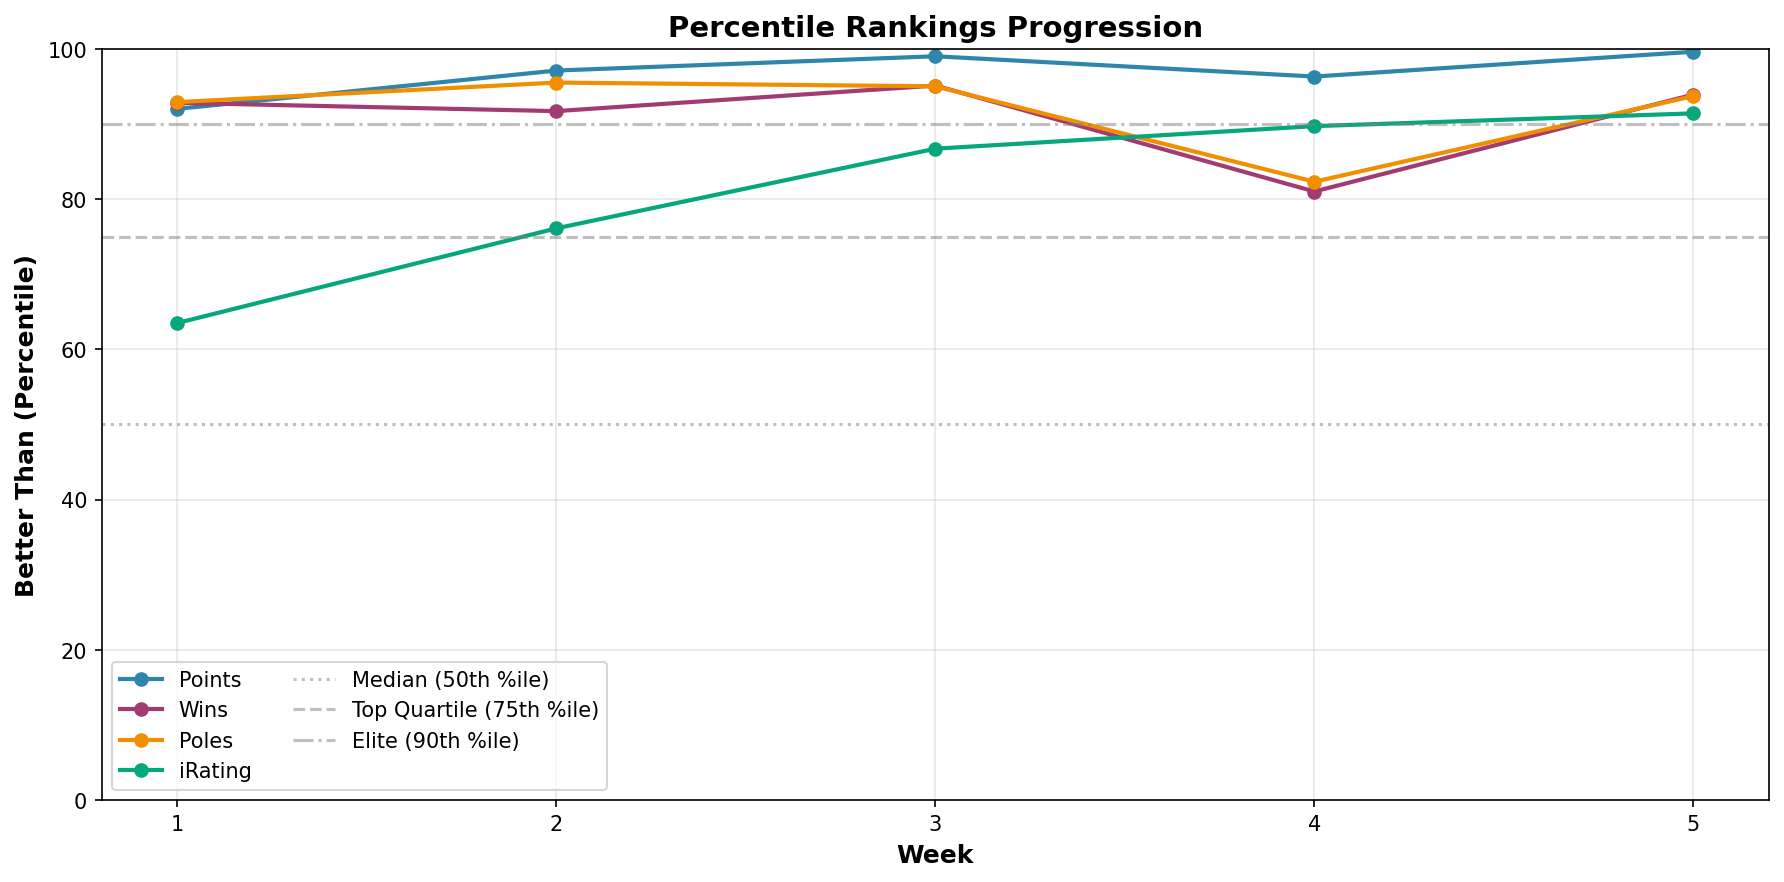
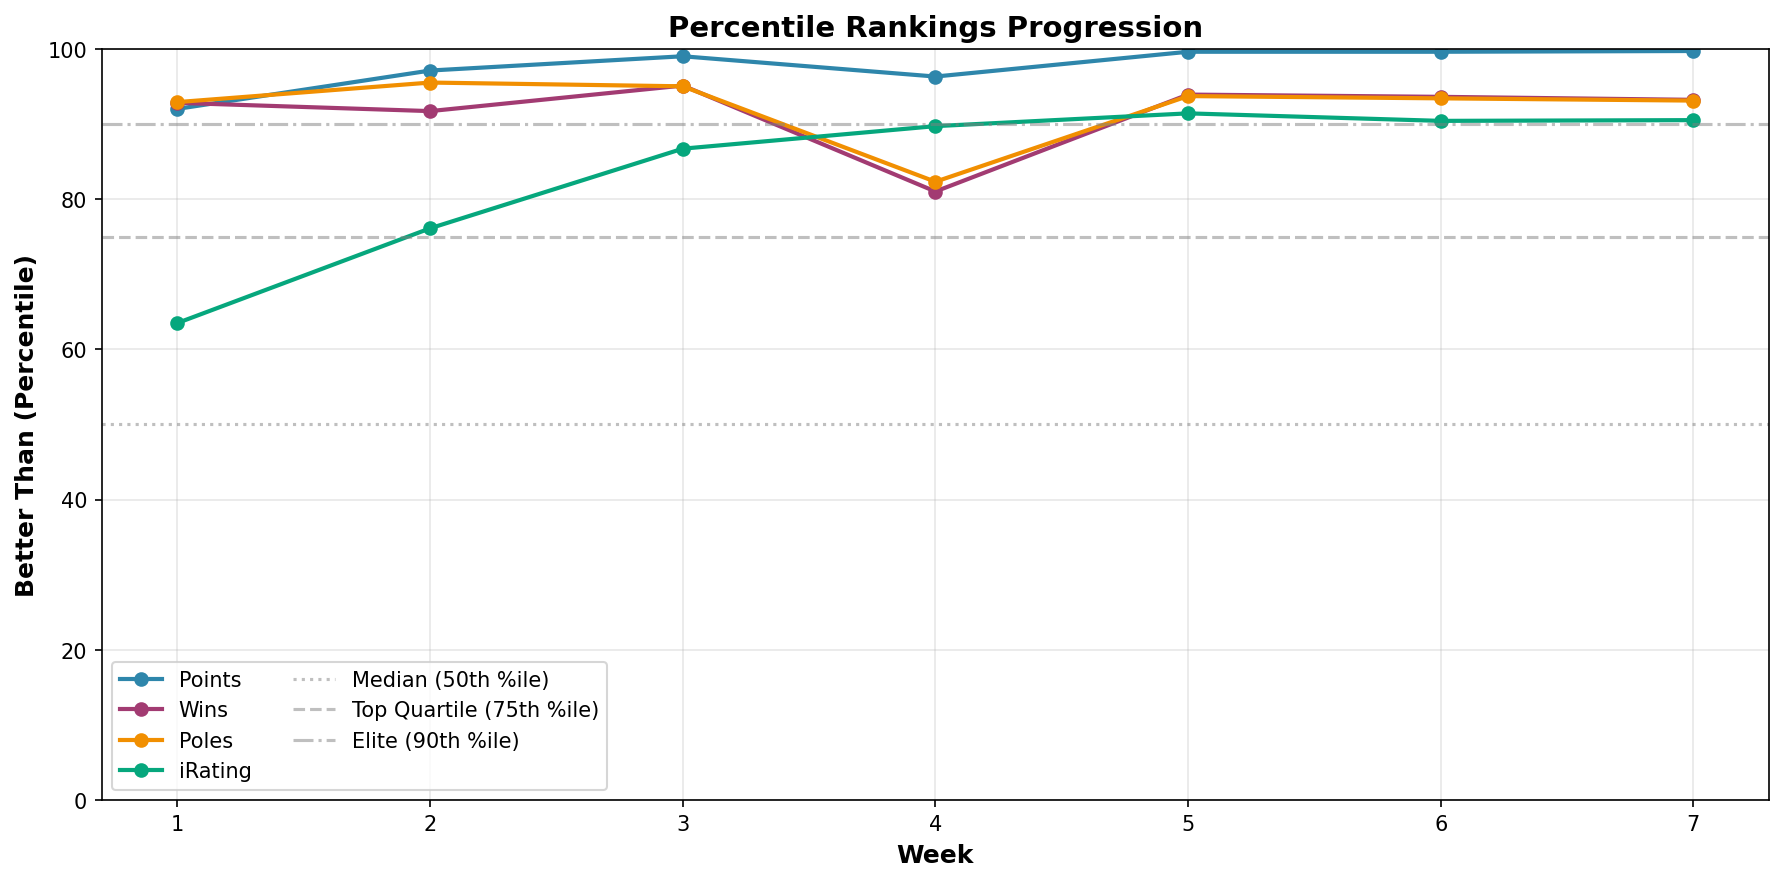
Update learning memory and performance metrics for Week 07 at Summit Point
- Revised week 07 summary to reflect completion, highlighting a new personal best of 1:15.550 and improved consistency metrics.
- Documented key achievements, including successful application of 'no trail braking' technique and effective racecraft strategies.
- Updated statistics to include iRating changes, session highlights, and overall performance improvements.
- Enhanced insights on mental composure and technique validation, emphasizing lessons learned during official races.

Changed region(s): [[0.0925, 0.0306, 0.9557, 0.2143], [0.0925, 0.2143, 0.3391, 0.3673], [0.3083, 0.1837, 0.4008, 0.2449]]

diff --git a/README.md b/README.md
@@ -14,119 +14,71 @@
 
 **Weeks 01-04:**
 
-| Metric | [W01 (Jefferson)](./weeks/week01/README.md) | [W02 (Rudskogen)](./weeks/week02/README.md) | [W03 (Winton)](./weeks/week03/README.md) | [W04 (Lime Rock)](./weeks/week04/README.md) |
-|:-------|:--------------------------------------------|:--------------------------------------------|:-----------------------------------------|:--------------------------------------------|
-| **Best Lap** | 50.768s | 1:28.508 | **1:25.710** | 56.238s |
-| **PB Improvement** | -0.67s | -1.78s | **-1.125s** | -0.18s |
-| **Consistency (σ)** | 0.40s | 0.86s | **0.16s** | 0.19s |
-| **Victories** | 1 | 0 | **2** | 2 |
-| **Mood** | Hopeful | Determined | **Dangerous** | Clinical |
+| Metric              | [W01 (Jefferson)](./weeks/week01/README.md) | [W02 (Rudskogen)](./weeks/week02/README.md) | [W03 (Winton)](./weeks/week03/README.md) | [W04 (Lime Rock)](./weeks/week04/README.md) |
+| :------------------ | :------------------------------------------ | :------------------------------------------ | :--------------------------------------- | :------------------------------------------ |
+| **Best Lap**        | 50.768s                                     | 1:28.508                                    | **1:25.710**                             | 56.238s                                     |
+| **PB Improvement**  | -0.67s                                      | -1.78s                                      | **-1.125s**                              | -0.18s                                      |
+| **Consistency (σ)** | 0.40s                                       | 0.86s                                       | **0.16s**                                | 0.19s                                       |
+| **Victories**       | 1                                           | 0                                           | **2**                                    | 2                                           |
+| **Mood**            | Hopeful                                     | Determined                                  | **Dangerous**                            | Clinical                                    |
 
 **Weeks 05-08:**
 
-| Metric | [W05 (Oschersleben)](./weeks/week05/README.md) | [W06 (Oran Park)](./weeks/week06/README.md) | [W07 (Summit Pt)](./weeks/week07/README.md) | [W08 (VIR North)](./weeks/week08/README.md) |
-|:-------|:-----------------------------------------------|:--------------------------------------------|:--------------------------------------------|:--------------------------------------------|
-| **Best Lap** | 1:32.700 | 1:11.033 | **1:15.550** | **1:30.283** 🏆 |
-| **PB Improvement** | -1.12s | **-1.55s** | -0.60s | **-1.23s** |
-| **Consistency (σ)** | 0.77s | 0.80s | **0.404s** | 1.05s |
-| **Official Result** | P5, P4 | P6, DNF, P7, P8 | **P5 TOP SPLIT** 🚀 | **POLE** (AI Race) |
-| **Mood** | Battle-Hardened | Resilient | **Automatic** | Dancing |
+| Metric              | [W05 (Oschersleben)](./weeks/week05/README.md) | [W06 (Oran Park)](./weeks/week06/README.md) | [W07 (Summit Pt)](./weeks/week07/README.md) | [W08 (VIR North)](./weeks/week08/README.md) |
+| :------------------ | :--------------------------------------------- | :------------------------------------------ | :------------------------------------------ | :------------------------------------------ |
+| **Best Lap**        | 1:32.700                                       | 1:11.033                                    | **1:15.550**                                | **1:30.283** 🏆                             |
+| **PB Improvement**  | -1.12s                                         | **-1.55s**                                  | -0.60s                                      | **-1.23s**                                  |
+| **Consistency (σ)** | 0.77s                                          | 0.80s                                       | **0.38s**                                   | 0.082s (Roller Coaster)                     |
+| **Official Result** | P5, P4                                         | P6, DNF, P7, P8                             | **P5, P9** (TOP SPLIT) 🚀                   | In Progress                                 |
+| **Mood**            | Battle-Hardened                                | Resilient                                   | **Automatic**                               | Dancing                                     |
 
-**Current:** Week 08 Complete | **iRating: 1719** | **Division 8 P2** | **Top 0.38%**
+**Current:** Week 08 Active | **iRating: 1719** | **Division 8 P2** | **P131 / 37,508** | **Top 0.35%**
+
+[📊 Week 07 Standings Report](./weeks/week07/standings-report.md) | [📈 Season Progression](./weeks/progression/progression-report.md)
 
 ---
 
-## Week 08: The Dancing Circuit
+## Week 08: The Dancing Circuit 🎯
+
+_Currently racing at Virginia International Raceway - North Course_
 
 There's a specific kind of confidence that comes when corners greet you like old friends.
 
-Master Lonn arrived at Virginia International Raceway expecting a fight. The Full Course had been two years and 80 laps ago—long enough for muscle memory to fade, long enough for doubt to creep in. Instead, he found his hands already knew the way. Horseshoe. Snake. Roller Coaster. The names came back before the thoughts did.
+Master Lonn arrived at VIR expecting a fight. The track had been two years and 80 laps ago—long enough for muscle memory to fade, long enough for doubt to creep in. Instead, his hands already knew the way. Horseshoe. Snake. Roller Coaster. The names came back before the thoughts did.
 
-"It's flowy," he said on the outlap, the Ray tracing lines through blind crests that would terrify a newcomer. "It's a dancing circuit."
+_"It's flowy. It's a dancing circuit."_
 
-Fifteen corners clicked before he'd pushed a single lap. The old pathways were still there, dormant but not dead.
+The Gong comparison landed: 2.7 seconds slower. Same top speed as the alien. 3.5 km/h slower through every corner. 0.24g of grip sitting unused. The car could do it. His mind wouldn't let it.
 
-Then the Gong comparison landed. Same series, same car, same track. 2.7 seconds slower. The speed delta map painted the track almost entirely red—not because Master Lonn lacked the lines, but because he lacked the trust. Same top speed as the alien. 3.5 km/h slower through every corner. 0.24g of grip sitting unused.
+Two corners screamed for attention: T3 NASCAR Bend and T10 Roller Coaster—the famous blind crest that demanded commitment and punished anything less.
 
-The car could do it. His mind wouldn't let it.
+Day two felt disastrous. Two spectacular crashes at the Roller Coaster. _"Messy. No enhancement."_ But the data told a different story: NEW PB 1:31.433. The crashes weren't from wrong technique—they happened mid-corner, when hesitation met physics.
 
-Two corners screamed for attention: T3 NASCAR Bend, where he braked and Gong stayed flat. And T10 Roller Coaster—the famous blind crest that demanded commitment and punished anything less than absolute trust.
+Then came the insight: _"T2 is a false apex."_ A mental model shift worth three tenths.
 
-Day two brought intention. He'd studied the telemetry overnight, found the technique: light trail braking through T2/T3, commit at the Roller Coaster using all the road on the left.
+Day three, something clicked. The Roller Coaster that had sent him spinning twice now felt... manageable. Five consecutive sub-1:31 laps. Zero crashes. NEW PB: **1:30.667**.
 
-The session felt disastrous. Two spectacular crashes at the Roller Coaster, the car spinning into the gravel with that particular violence only blind crests deliver. Physics doesn't negotiate. "Messy," he said afterward. "No enhancement."
+Day four: AI Race weekend. In qualifying, everything aligned. The timer stopped.
 
-The data told a different story.
+**1:30.283. POLE POSITION.**
 
-NEW PB: 1:31.433. T2 consistency improved 32%. And those Roller Coaster laps that didn't crash? Faster than baseline. The technique was right. The crashes weren't from wrong braking—brake point variance was only 5.3 meters. They happened mid-corner, when hesitation met physics and physics won.
+Only 0.183 seconds off optimal. Four days ago, he'd been 1.5 seconds away and crashing. The Roller Coaster brake σ = **0.082s**. Snake brake σ = **0.2 meters**. Machine-like.
 
-Then came the insight that changed everything.
+**Week 08 Status:** Prep complete. Officials this week. Target: sub-1:30, clean race execution.
 
-Reviewing telemetry after the crashes, he saw it: "T2 is a false apex. I can leave it on the left almost mid-track." The corner he'd been carefully apexing wasn't a corner at all. Just a setup kink for T3. A mental model shift worth three tenths, waiting to be tested.
-
-Day three, something clicked.
-
-Not in the data. Not on the timer. In his hands. The Roller Coaster that had sent him spinning twice now felt... manageable. The brake point locked in—same spot, every lap. The commitment that had faltered now held firm.
-
-Five consecutive sub-1:31 laps. Zero crashes. The mantra worked: "Eyes exit, commit through."
-
-NEW PB: **1:30.667**. The gap to 1:30.0 had shrunk from 1.5 seconds to 0.667.
-
-But he wasn't done.
-
-Day four brought the real test: an AI Race weekend. Practice, qualifying, race. The full simulation of pressure.
-
-In qualifying, everything aligned. The T2 false apex line. The committed Roller Coaster entry. The flow state he'd been chasing all week. The timer stopped.
-
-**1:30.283.**
-
-POLE POSITION.
-
-Not close to the optimal. Only 0.183 seconds off. Four days ago, he'd been 1.5 seconds away and crashing. Now he was starting on pole with the fastest lap of the session.
-
-The race taught one more lesson. An adaptive AI caught him and pressured for position. He yielded—the smart move. But he stayed too close. Contact. "I touched him!" he said, frustration spiking. "Such a stupid mistake."
-
-He dropped positions. The podium disappeared.
-
-But listen to what came next.
-
-"It's what it is. That's what training is for."
-
-He reset. Rebuilt pace. Drove five more sub-1:31 laps in race conditions. Finished P9. Crossed the line smiling.
-
-"It was a fun race."
-
-From baseline to POLE in four days. The dancing circuit had accepted him.
-
----
-
-## Week 07: Second Nature
-
-There's a moment when technique becomes instinct.
-
-Master Lonn returned to Summit Point after seven months expecting rust. His first lap was 1.4 seconds faster than his old personal best.
-
-The compound growth from Weeks 01-06 had been building invisibly—and the test finally revealed it.
-
-Day two brought seventeen minutes of focused drilling. T5 coasting technique. T1 late braking. No lap time chasing—just repetition. That evening, a flow session produced a new PB: **1:15.550**.
-
-Then came Tuesday.
-
-**Official Race 01. TOP SPLIT. SoF 2045.** Division 1-2 drivers. The real thing.
-
-He botched qualifying—two off-tracks, no time set, P10 start. In a field of aliens, starting from the back.
-
-He deployed Meebewegen from the lights. Let the aggressive car through. Pressured Sato until he spun. Collected positions through patience.
-
-"No trail braking," he said eight times during the race. A mantra. A meditation. The T5 Carousel brake point data came back: **σ = 1.0 meter**. One meter variance across ten race laps against TOP SPLIT competition.
-
-P10 → P5. Only 1x incident. +38 iRating.
-
-**"Feels like second nature."**
+The dancing circuit awaits.
 
 ---
 
 ## The Journey So Far
+
+### Week 07: Second Nature
+
+Seven months away from Summit Point. First lap back: 1.4 seconds faster than his old PB. Compound growth revealed.
+
+Two TOP SPLIT races. P5 (SoF 2045) with T5 brake σ = 1.0 meter. P9 (SoF 2674) against Division 1-4 aliens—_"I'm gonna die. And I love it."_
+
+The technique became automatic. **P2 Division 8. P6 Dutch. Top 0.35%.**
 
 ### Week 06: The Lesson
 
@@ -136,7 +88,7 @@ Then race day. Four races in five hours. Race 03 was perfect: P7, 67 points, 0.7
 
 But he didn't stop. Race 04 cost iRating and gained nothing.
 
-The lesson: *Know When To Stop*.
+The lesson: _Know When To Stop_.
 
 ### Week 05: The Hotel's Revenge
 
@@ -170,7 +122,7 @@ The lesson: Strategic Maturity. "P3 is secured." Back off 5%. Bring the car home
 
 He arrived running 51.4s. He left running 50.5s with a race victory.
 
-The discovery of Flow State. *"Easy flying."* The realization that trying less means going faster.
+The discovery of Flow State. _"Easy flying."_ The realization that trying less means going faster.
 
 ---
 
@@ -178,17 +130,19 @@ The discovery of Flow State. *"Easy flying."* The realization that trying less m
 
 **Master Lonn** isn't just fast. He's a **Systems Thinker**.
 
-He doesn't just drive laps; he builds protocols. The *Cold Tire Contract*. The *Position Secured Protocol*. The *Sequential Mastery Framework*. When the red mist descends, the protocol takes over.
+He doesn't just drive laps; he builds protocols. The _Cold Tire Contract_. The _Position Secured Protocol_. The _Sequential Mastery Framework_. When the red mist descends, the protocol takes over.
 
 He has ADHD, which means his brain craves novelty but struggles with impulse. The systems are the guardrails.
 
 He's learned that **Success** (P137, 67 points) is different from **Satisfaction** ("I wanted P1"). He's learned that **Resilience**—resetting after a crash in one lap—is worth more than raw speed.
 
-He is currently ranked **Top 0.38%** globally with **1719 iRating** (+481 this season).
+He is currently ranked **P131 / 37,508** globally (**Top 0.35%**) with **1719 iRating** (+481 this season).
 
-After Week 08's POLE POSITION, he doesn't wonder if the training works.
+**P2 in Division 8** out of 1,966 drivers. **P6 among Dutch drivers**.
 
-He knows. The dancing circuit told him so.
+After seven weeks of data-driven coaching, he doesn't wonder if the training works.
+
+He knows. The numbers proved it.
 
 ---
 
@@ -199,17 +153,20 @@ A **living research project** on **data-driven personalized learning** in comple
 **The Experiment:** Can an AI coach (Little Padawan) + rich telemetry data + ADHD-adapted frameworks accelerate skill acquisition in sim racing?
 
 **The Evidence:**
-- **+481 iRating** in 8 weeks (1238 → 1719)
-- **Official TOP SPLIT P5** with only 1x incident
-- **POLE POSITION** in AI Race weekend
-- **1.234s PB improvement** at VIR North in four days
-- **T5 brake point σ = 1.0 METER** under race pressure
-- **Roller Coaster brake σ = 1.1m** after commitment breakthrough
+
+- **+481 iRating** in 7 weeks (1238 → 1719, +38.9%)
+- **P131 / 37,508 drivers** (Top 0.35%)
+- **P2 Division 8** out of 1,966 drivers
+- **P6 Dutch** out of 672 drivers
+- **Official TOP SPLIT P5** (SoF 2045) with only 1x incident
+- **POLE POSITION** in AI Race weekend at VIR
+- **T5 brake point σ = 1.0 METER** under TOP SPLIT race pressure
+- **Roller Coaster σ = 0.082s** after commitment breakthrough
+- **2.59 incidents/race** (cleaner than Division 1 average of 3.80)
 - **Voice-telemetry correlation** proving "flow state" is measurable
-- **"False apex" discovery** as mental model evolution
 
 All tracked. All documented. All reproducible. 🏎🔬
 
 ---
 
-_"From baseline to POLE in four days. The dancing circuit has accepted you, Master."_ 🏎💨
+_"Seven weeks. Top 0.35%. The technique became automatic. The pressure became play."_ 🏎💨

diff --git a/weeks/progression/progression-report.md b/weeks/progression/progression-report.md
@@ -1,7 +1,7 @@
-# Season Progression Report (Week 01 → Week 06)
+# Season Progression Report (Week 01 → Week 07)
 
-**Generated:** 2026-01-21 09:30 (Updated with Week 06 final data)
-**Weeks Analyzed:** 6
+**Generated:** 2026-02-03 07:33
+**Weeks Analyzed:** 7
 
 ---
 
@@ -11,18 +11,18 @@
 
 ![iRating Progression](assets/irating_progression.png)
 
-- **Starting iRating:** 1238 (Season 01 2026 start)
-- **Current iRating:** 1703 (Week 06 final)
-- **Total Gain:** +465 points
-- **Average per Week:** +77.5 points
+- **Starting iRating:** 1377
+- **Current iRating:** 1719
+- **Total Gain:** +342 points
+- **Average per Week:** +57.0 points
 
 ### Position Climb
 
 ![Position Climb](assets/position_climb.png)
 
 - **Starting Position:** 749
-- **Current Position:** 137
-- **Positions Gained:** +612
+- **Current Position:** 131
+- **Positions Gained:** +618
 
 ### Percentile Rankings
 
@@ -64,7 +64,7 @@ Track your standing across multiple metrics week-over-week.
 ### Week 04
 
 - **Position:** 383 / 10,096
-- **iRating:** 1672
+- **iRating:** 1703
 - **Points:** 94.0
 - **Wins:** 0
 - **Starts:** 1
@@ -81,18 +81,26 @@ Track your standing across multiple metrics week-over-week.
 
 ### Week 06
 
-- **Position:** TBD / ~30,000+
+- **Position:** 130 / 33,817
 - **iRating:** 1703
-- **Points:** 67.0 (championship points)
-- **Wins:** 0
-- **Starts:** 4 official races (+ 2 AI races)
-- **Incidents/Race:** ~2.5
+- **Points:** 464.0
+- **Wins:** 2
+- **Starts:** 15
+- **Incidents/Race:** 2.80
 
-**Note:** Week 06 was about learning "Know When To Stop" - strategic racing over pure speed chasing. Championship points secured (67), iRating sacrificed (-35) for learning. The lesson was worth more than the rating.
+### Week 07
+
+- **Position:** 131 / 37,508
+- **iRating:** 1719
+- **Points:** 540.0
+- **Wins:** 2
+- **Starts:** 17
+- **Incidents/Race:** 2.59
 
 ---
 
 **Note:** These visualizations help identify trends and patterns in your season progression. Use them to:
+
 - Spot momentum shifts (accelerating or plateauing improvement)
 - Identify metrics that need focus (lagging percentiles)
 - Track consistency (smooth progression vs volatile swings)

diff --git a/weeks/week07/README.md b/weeks/week07/README.md
@@ -148,10 +148,11 @@ _\*excluding incident lap_
 
 ## Next Week Preview
 
-**Track**: TBD (Week 08)  
-**Challenge**: New track, fresh start  
-**Goal**: Apply Week 07 methodology (focused practice → flow → race deployment)  
-**Strategy**: Sequential Mastery + verbal cueing + Meebewegen mindset
+**Track**: Virginia International Raceway - North Course (Week 08)  
+**Challenge**: Technical track, 21 corners, Roller Coaster complex  
+**Current PB**: 1:30.283 (AI race pole position)  
+**Goal**: Sub-1:30 in officials, clean race execution  
+**Strategy**: Roller Coaster DIALED (σ 0.082s), Snake brake σ = 0.2m — deploy Week 07 methodology
 
 ---
 
